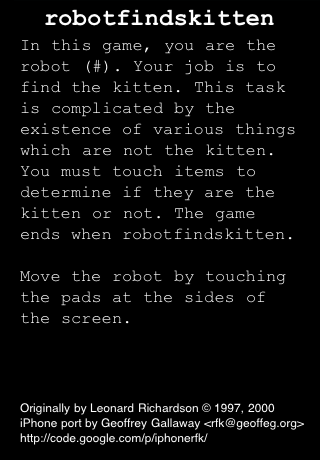
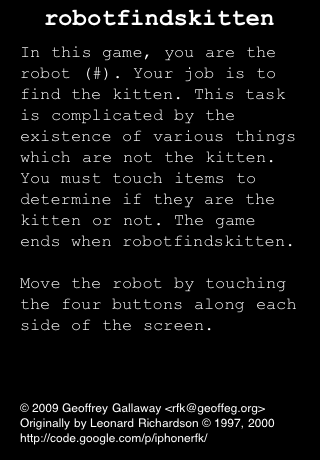
Cleanup game instructions based on beta user feedback (previous version was not properly descriptive enough). Ensure a robot character (#) is never used for a non-robot item.

diff --git a/Classes/Robot_Finds_KittenViewController.m b/Classes/Robot_Finds_KittenViewController.m
@@ -73,9 +73,12 @@
 		
 		// make sure there isn't already a character at this position		
 		if ([self itemAtLocation:CGRectMake(top, left, 20, 20)] != nil) continue;
-		
-		int charaCode = arc4random() % (126-'!'+1)+'!';
-		NSString *theCharacter = [[NSString alloc] initWithFormat:@"%c", charaCode];
+
+		NSString *theCharacter;
+		do {
+			int charaCode = arc4random() % (126-'!'+1)+'!';
+			theCharacter = [[NSString alloc] initWithFormat:@"%c", charaCode];			
+		} while ([theCharacter compare:@"#"] == NSOrderedSame);
 		[self createCharacter:theCharacter top:top left:left color:[colors objectAtIndex:arc4random() % [colors count]] bold:YES];
 		[theCharacter release];
 	}
@@ -86,6 +89,7 @@
 #ifdef DEBUG
 	item.item.text = @"@";
 #endif
+	
 	// Draw the robot, but make sure we don't draw it on top of another item
 	int top, left;
 	do {
